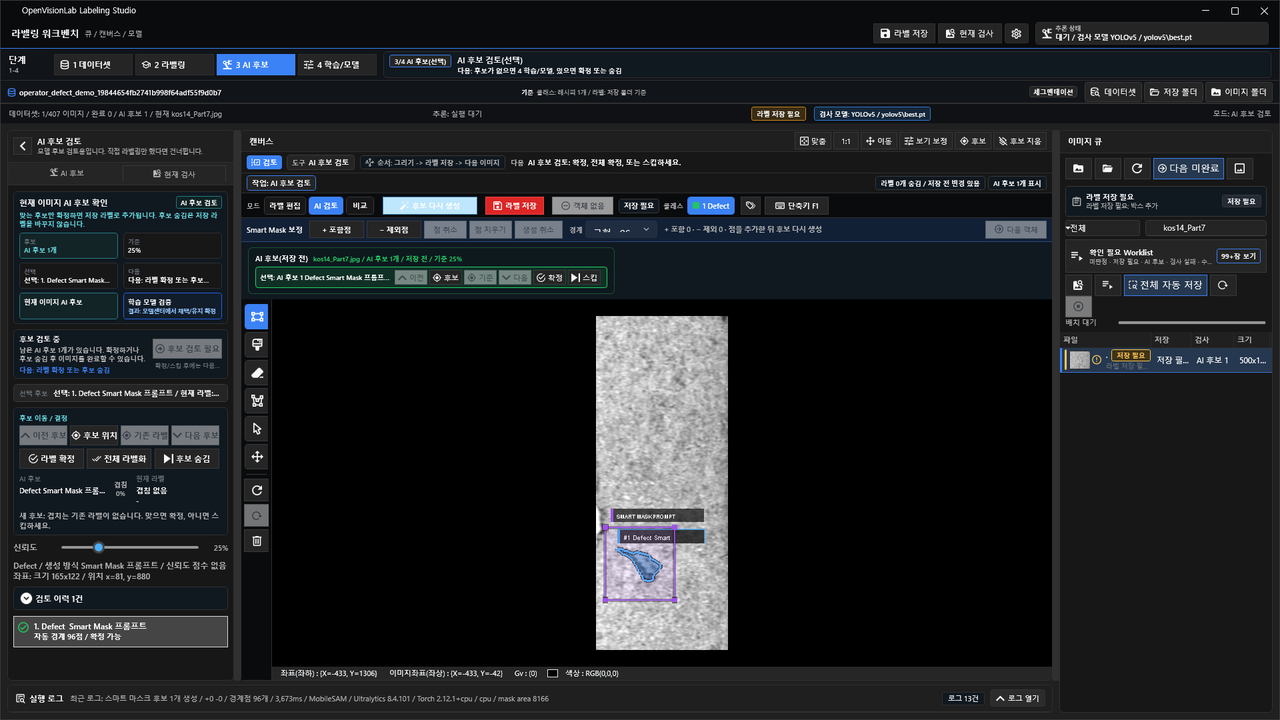
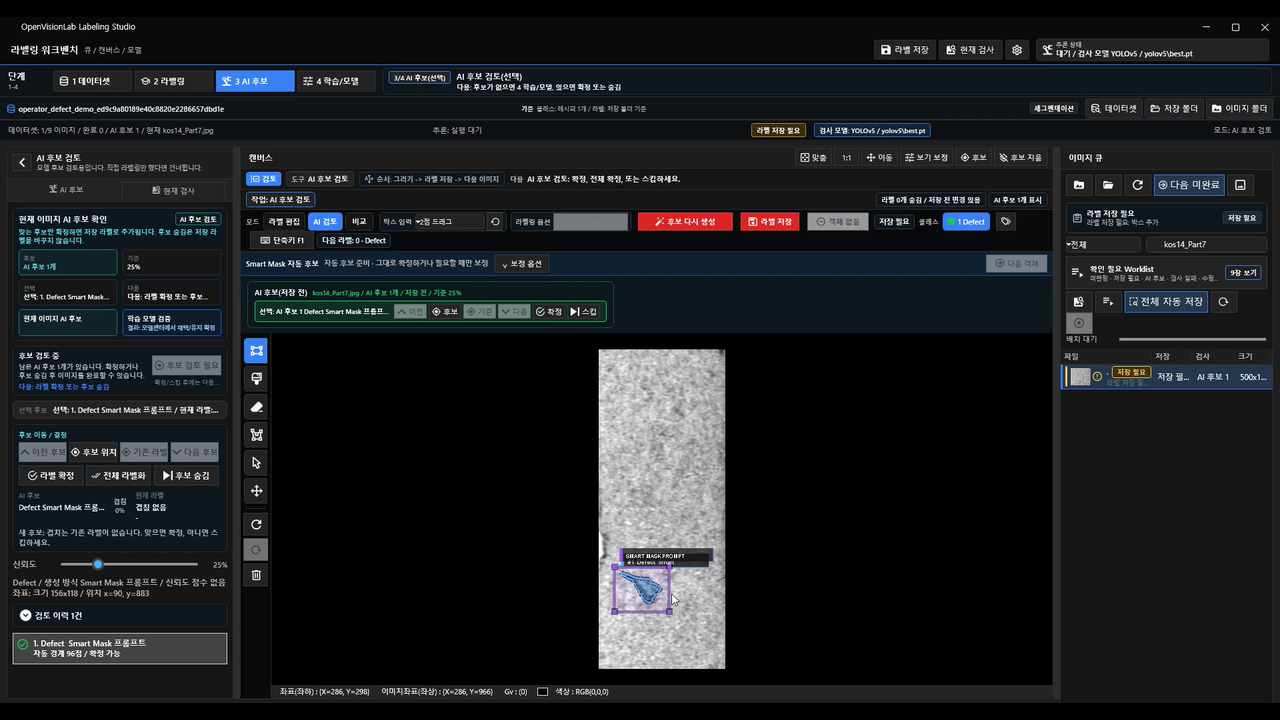
Refresh current labeling workflow GIF

Changed region(s): [[0.0, 0.0, 1.0, 1.0]]

diff --git a/tests/LabelingApplication.Tests/Program.OperatorVideo.cs b/tests/LabelingApplication.Tests/Program.OperatorVideo.cs
@@ -239,8 +239,7 @@ internal static partial class Program
 
             System.Windows.Rect windowBounds = root.Current.BoundingRectangle;
             AssertTrue(
-                windowBounds.X >= 0
-                    && windowBounds.Y >= 0
+                !windowBounds.IsEmpty
                     && windowBounds.Width >= 1600
                     && windowBounds.Height >= 900,
                 $"operator video application-only crop was invalid: {windowBounds}");
@@ -592,9 +591,12 @@ internal static partial class Program
                 MeasureOperatorVideoMaskQuality(defect.MaskPath, savedMaskPath);
             AssertTrue(
                 savedArtifact.SegmentPoints >= 48
-                    && maskQuality.Precision >= 0.90D,
+                    && maskQuality.IntersectionOverUnion >= 0.35D
+                    && maskQuality.Precision >= 0.50D
+                    && maskQuality.Recall >= 0.35D,
                 "operator video automatic candidate did not meet the human-review candidate gate: "
-                    + $"points={savedArtifact.SegmentPoints}; precision={maskQuality.Precision:F4}");
+                    + $"points={savedArtifact.SegmentPoints}; iou={maskQuality.IntersectionOverUnion:F4}; "
+                    + $"precision={maskQuality.Precision:F4}; recall={maskQuality.Recall:F4}");
             CopyOperatorVideoSavedEvidence(savedArtifacts, paths.SavedArtifactDirectory);
             eventLog.Write(
                 "annotation-saved",

diff --git a/docs/ACTUAL_EXE_VIDEO_AND_GITHUB_GIF_PLAN_20260728.md b/docs/ACTUAL_EXE_VIDEO_AND_GITHUB_GIF_PLAN_20260728.md
@@ -348,6 +348,109 @@ Recommended model: `gpt-5.6-sol`
 
 Reasoning effort: `high`
 
+## 2026-08-05 current-UI README GIF refresh
+
+Status: Complete
+
+The README hero was rerecorded after the labeling workbench and automatic-
+contour workflow changed. Product code was not changed for the capture. The
+actual current Debug EXE was operated on the active leftmost monitor, and the
+test-only operator runner was updated to accept a left monitor with negative
+virtual-desktop coordinates.
+
+### Current operation proven
+
+- source EXE SHA-256:
[1 lines of base64/hex data omitted]
+- active monitor: `\\.\DISPLAY2`, bounds `-1920,365,1920,1080`;
+- actual public sample: official KolektorSDD fine annotation
+  `kos14/Part7.jpg` and `Part7_label.bmp`;
+- visible sequence: enable `자동 윤곽` once, draw one rough box, automatically
+  fit the viewer after the workflow panel changes, generate a MobileSAM
+  candidate without another action click, explicitly confirm/save, then open
+  the next incomplete image;
+- no Fit action and no separate Smart Mask create action appear in the event
+  sequence;
+- saved result: one polygon, 96 points, and 6,614 mask pixels;
+- fine-mask comparison: IoU `0.5801`, precision `0.6155`, recall `0.9097`.
+
+The previous one-sided `precision >= 0.90` runner gate was tied to an older
+19,808-pixel broad mask. The restored official fine mask contains 4,475
+positive pixels. The runner now keeps an objective human-review gate while
+requiring IoU, precision, and recall together; it does not lower the gate to a
+single unchecked visual judgment.
+
+### Recording and publication evidence
+
+- passing run ID: `20260805-smart-contour-readme-refresh-r5`;
+- uncut application-window recording: 1920x1080 H.264, 57.833 seconds, 1,728
+  frames, SHA-256
[1 lines of base64/hex data omitted]
+- public GIF: 1024x576, 10fps, 20.000 seconds, 200 frames, 1,269,047 bytes,
+  SHA-256
[1 lines of base64/hex data omitted]
+- poster: 1280x720 PNG, 347,442 bytes, SHA-256
[1 lines of base64/hex data omitted]
+- ignored local evidence:
+  `artifacts\operator-video\20260805-smart-contour-readme-refresh-r5`.
+
+The promotional edit removes only stationary cursor travel and the middle of
+the inference wait, retains the visible busy state and original event order,
+and plays at about 1.35x. The bottom execution-log strip is cropped because the
+uncut evidence shows a machine-local test path there. The uncut MP4 remains
+available for audit, and no failed action, candidate state, or save result is
+hidden.
+
+### Visual and operational review
+
+- no unrelated desktop or application is visible;
+- dark-theme controls, focus states, candidate review, saved state, and image
+  queue remain visually consistent without clipping;
+- viewer centering survives the left workflow-panel expansion without a Fit
+  click;
+- automatic inference remains pending until explicit operator confirmation;
+- the full random test Recipe identifier remains a minor P3 presentation
+  distraction, not an operational blocker;
+- the fine-mask score is one public-sample candidate measurement, not field
+  accuracy or commercial-parity evidence.
+
+### Completion record
+
+Status: Complete
+
+Scope: current-UI actual-EXE Smart Mask operation review, leftmost-monitor
+recording, saved-artifact validation, public GIF/poster replacement, and README
+workflow wording refresh.
+
+Acceptance criteria:
+
+- current EXE automatic-contour labeling/save/next-image path: pass;
+- no extra candidate-generation or Fit click: pass;
+- application-only leftmost-monitor evidence: pass;
+- objective saved mask/segment validation: pass;
+- current public GIF/poster tracked and linked from README: pass;
+- public-media path exposure removed while uncut evidence remains: pass.
+
+Verification:
+
+- isolated test build: warning 0, error 0;
+- `--mobile-sam-box-prompt`: pass;
+- `--smart-mask-auto-boundary-presentation`: pass;
+- `--wpf-labeling-shell`: pass;
+- real MobileSAM box prompt: pass, 96 points;
+- `--exe-operator-video-smoke --verify-auto-contour-mode`: pass;
+- ffprobe, SHA-256, saved artifacts, full contact sheet, GIF contact sheet, and
+  poster visual review: pass.
+
+Evidence: `tests\LabelingApplication.Tests\Program.OperatorVideo.cs`, the two
+README media files under `docs\tutorial\images\github`, and the ignored run
+folder named above.
+
+Boundary / next dependency: this closes the current README hero refresh, not
+production segmentation quality or the separate P0-C clean GPU-target labeling
+gate. A directly accessible GPU-capable clean Windows target is still required
+for that external package validation.
+
 ## 2026-07-28 execution and review record
 
 Status: Complete

diff --git a/README.md b/README.md
@@ -2,9 +2,9 @@
 
 산업용 이미지 데이터셋을 만들고, 라벨링하고, 여러 모델로 학습·검증·비교하는 Windows 데스크톱 작업대입니다.
 
-![실제 Windows EXE에서 결함 박스를 자동 세그멘테이션 후보로 변환하고 확인·저장하는 Smart Mask 흐름](docs/tutorial/images/github/labeling-studio-smart-mask-workflow.gif)
+![자동 윤곽을 한 번 켠 뒤 결함 박스만 그려 후보 생성·확정·다음 이미지로 이어지는 현재 Smart Mask 흐름](docs/tutorial/images/github/labeling-studio-smart-mask-workflow.gif)
 
-> 실제 Windows EXE에서 결함 주위에 박스를 그리면 MobileSAM이 채워진 마스크와 자동 경계를 만들고, 작업자가 확인한 결과만 라벨로 저장합니다. [정지 이미지 보기](docs/tutorial/images/github/labeling-studio-smart-mask-workflow-poster.png)
+> 실제 Windows EXE에서 세그멘테이션 Recipe의 `자동 윤곽`을 한 번 켜고 결함 박스를 그리면 MobileSAM 후보가 별도 생성 클릭 없이 나타납니다. 패널이 바뀌어도 뷰어는 자동 맞춤되며, 작업자가 확인한 결과만 저장됩니다. [정지 이미지 보기](docs/tutorial/images/github/labeling-studio-smart-mask-workflow-poster.png)
 
 ![객체탐지 라벨링 화면](docs/tutorial/images/workflows-20260722/object-detection-labeling-1920x1080.png)
 
@@ -48,7 +48,8 @@ OpenVisionLab Labeling Studio는 라벨만 그리는 도구가 아닙니다. 한
 
 반복해서 자동 경계를 만들려면 세그멘테이션 Recipe의 `라벨링 옵션`에서
 `자동 윤곽`을 한 번 켭니다. 이후 결함을 사각형으로 감쌀 때마다
-MobileSAM 후보가 바로 생성됩니다. 후보가 부족하면 `보정 옵션`에서
+MobileSAM 후보가 별도 생성 버튼 없이 바로 나타나며, 작업 패널이
+펼쳐져도 뷰어 맞춤은 자동으로 갱신됩니다. 후보가 부족하면 `보정 옵션`에서
 포함점 또는 제외점을 한 번에 하나씩 추가하고 `후보 다시 생성`을 누른
 뒤 `이전 후보 보기`와 `현재 후보 보기`로 비교합니다. 후보 생성과
 후보 전환만으로는 파일이 바뀌지 않습니다. 표시 중인 후보가 맞으면
